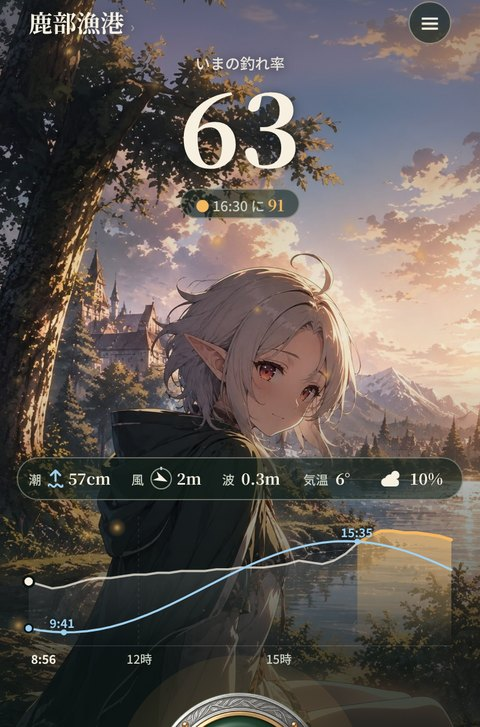
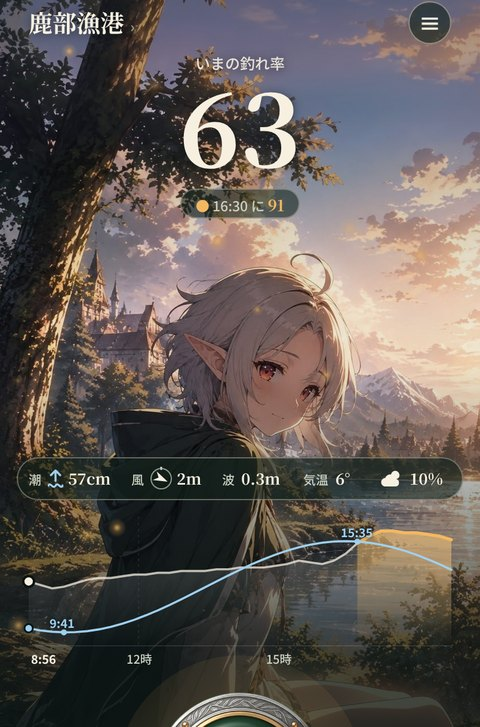
L53: シルフィの待機中の背景、左上の木の幹が折れて見えるのを描き直し
- 描き足した上の部分で幹が逆向きに継がれていた（下地の鏡映しが原因）。木だけを 1 本の幹に描き直し、元の絵を重ね直した
- カードの絵と予想図を更新、作り方のコツを 07_theme_spec に追記

Claude-Session: https://claude.ai/code/session_01UYc4jCZAzEFFPiByHr3rU2

Changed region(s): [[0.0, 0.0, 0.3438, 0.1816]]

diff --git a/docs/03_loop_plan.md b/docs/03_loop_plan.md
@@ -41,6 +41,7 @@
 | L31 | 釣り場詳細の詳細情報・地図のメモ・相談（F-51〜F-53） | review | #55 | 2026-11-06 開発者「余白にホームのような詳細情報」「地図に点を置いて店先で聞いた情報を追加」「チャットボタンから音声かテキストで Siri に聞いたり、店先の会話を整理して地図に反映」 |
 | L30 | 漁港の即時検索（かな・ローマ字・漢字、F-50） | review | #54 | 2026-11-06 開発者「地図から漁港を検索する時にカタカナやひらがな、漢字でリアルタイムで検索表示」 |
 | L29 | 自宅などでの誤った自動開始の修正 | review | #52 #53 | 2026-11-06 開発者「釣り場ではないところで釣りが開始された」（七重浜 3 丁目：地名の「浜」で海岸近傍と誤判定） |
+| L53 | シルフィの待機中の背景：左上の木の幹が折れて見えるのを描き直し | in_progress | #83 | | 2026-11-11 開発者（待機中のスクリーンショット）「ホーム画面の左上の木の画像がズレてます。直してください」 |
 | L52 | リグをフック・シンカー・ワームの選択式に（F-64）、釣り人の追加が反映されない不具合 | review | #82 | 2026-11-11 12:59 JST に TestFlight へ配信 | 2026-11-11 開発者（撮影画面のリグのシートのスクリーンショット）「フック、シンカー、ワーム、添付の画面から選択式で選択して登録できるように。フックは大きさ、シンカーは重さ、ワームはメーカー、サイズ、色を事前に登録しておきそこから選択するイメージ」「釣り人を追加しても反映されない。何度かやって登録されるのでここも直して」 |
 | L51 | 海図の画面：待機中の開始ボタンの見切れ修正、グラフにマズメの帯 | review | #81 | 2026-11-11 11:28 JST に TestFlight へ配信 | 2026-11-11 開発者（シルフィの待機中のスクリーンショット）「下のボタンが見切れてます。直してください。後グラフにマズメの時間に背景に色付けをしてください」 |
 | L50 | テーマ「シルフィ 海図（夕映えの湖）」：海図の 1 画面をシルフィの絵で着せ替え（背景・開始/撮影ボタン・計器・地図の額・メニューの印・各画面の背景）。海図の画面の着せ替えの仕組み（`chart`） | review | #80 | 2026-11-11 10:36 JST に TestFlight へ配信 | 2026-11-11 開発者（シルフィの絵）「テーマ『海図』で新規テーマを追加。シルフィをテーマにしてボタンや輪郭、背景、メニュー、全てに対して細部までこだわり 1 ミリの妥協をせずに。ただし、地図の作り直しは不要。品質が落ちない程度で Gemini のどのモデルを使ってもいい」 |
@@ -445,6 +446,14 @@ F-12（手入力サイズ）、F-15（針ロスト・根掛かりマップの完
 - [x] 仲間の釣果の写真本体：全画面で見たとき iCloud から取り、「写真に保存」できる（一覧はサムネイルのまま）
 - [x] ios-build 緑 → TestFlight へ配信（2026-11-09 18:21 JST）
 - [x] 実機確認：固まりが残る場合は 設定 > 診断 の記録をコピーして知らせる → 開発者がログを共有、L37 で対応
+
+### L53 シルフィの待機中の背景の木（2026-11-11）
+
+受け入れ条件
+- [x] 左上の木が、下から上まで 1 本の幹でつながって見える（折れ・二重の幹が無い）。空と雲、人物は変えない
+- [x] 予想図とカードの絵を更新（`docs/ui/sylphie_lake_preview.jpg`、`thumb.jpg`）
+- [ ] ios-build 緑 → TestFlight へ配信
+- [ ] 実機確認：待機中の左上の木が自然につながっているか
 
 ### L52 リグの選択式、釣り人の追加（2026-11-11、F-64）
 

diff --git a/docs/04_decisions.md b/docs/04_decisions.md
@@ -3,6 +3,13 @@
 新しい決定は上に追加する。形式：日付 / 決定 / 理由 / 影響範囲。
 Claude Code が設計判断で迷ったら、まずここに「提案」として書き、PR で問う。
 
+## 2026-11-11 L53 シルフィの待機中の背景：木の幹の描き直し
+
+| 決定 | 理由 | 影響 |
+| --- | --- | --- |
+| 描き足した上の部分の木を、1 本の幹が同じ傾きのまま上へ続く形に描き直す | 開発者「左上の木の画像がズレてます」。位置のずれではなく、描き足しで幹が途中から折れ、太い別の幹が逆向きに継がれたように見えていた。原因は、描き足しの下地に元絵の上端の鏡映しを使ったこと（幹が鏡映しの向きに描かれた） | 継ぎ目の無い今の絵を渡して「木だけ」を描き直させ、元の絵を重ね直した。下地を変えて一から描き足す方法は 4 枚とも継ぎ目が出たので不採用 |
+| 描き足しの下地に鏡映しを使わない（今後のテーマ） | 鏡映しは、斜めのもの（幹・枝・地平線）を逆向きに誘導する | `docs/07_theme_spec.md` の作り方のコツに追記 |
+
 ## 2026-11-11 L52 リグを部品の選択式に、釣り人の追加の不具合
 
 | 決定 | 理由 | 影響 |

diff --git a/App/Resources/Themes/sylphie_lake/README.md b/App/Resources/Themes/sylphie_lake/README.md
@@ -5,7 +5,7 @@
 
 | ファイル | 内容 | 作り方 |
 | --- | --- | --- |
-| `chart_bg_idle.jpg` | 待機中の背景（1206×2683）。開発者の絵そのまま＋上に空と木の続き | 上の 540 行だけ Gemini `gemini-3-pro-image-preview` で描き足し、元の絵を継ぎ目をぼかして重ねた（人物は元の絵のまま） |
+| `chart_bg_idle.jpg` | 待機中の背景（1206×2683）。開発者の絵そのまま＋上に空と木の続き | 上の 540 行だけ Gemini `gemini-3-pro-image-preview` で描き足し、元の絵を継ぎ目をぼかして重ねた（人物は元の絵のまま）。2026-11-11：描き足した所で木の幹が折れて見えたので、幹だけを 1 本につながるよう描き直した |
 | `chart_orb_start.png` | 開始ボタン（銀の蔦の縁、深緑の面。文字はアプリ） | pro、マゼンタ背景 → `scripts/theme_chroma_key.py` |
 | `chart_orb_shutter.png` | 撮影ボタン（夕日の琥珀に、葉の形の絞り） | 同上 |
 | `chart_dial.png` | 風向の計器（銀の目盛り、上に金の葉＝北。針はアプリ） | 同上 |

diff --git a/docs/07_theme_spec.md b/docs/07_theme_spec.md
@@ -151,3 +151,5 @@
 
 「≡」から開くログ・図鑑・設定などは、これまでどおり `colors` と `bg_log` `bg_guide` `bg_sheet` などを使う。
 
+背景の絵を上へ描き足すとき（数字を空に置くため）のコツ：描き足す所の下地に、元絵の鏡映しを使わない（斜めの幹や枝が逆向きに描かれて折れて見える）。描き足したあと、斜めのものが折れていたら「そこだけ」を描き直させ、元の絵を継ぎ目をぼかして重ね直す。
+
